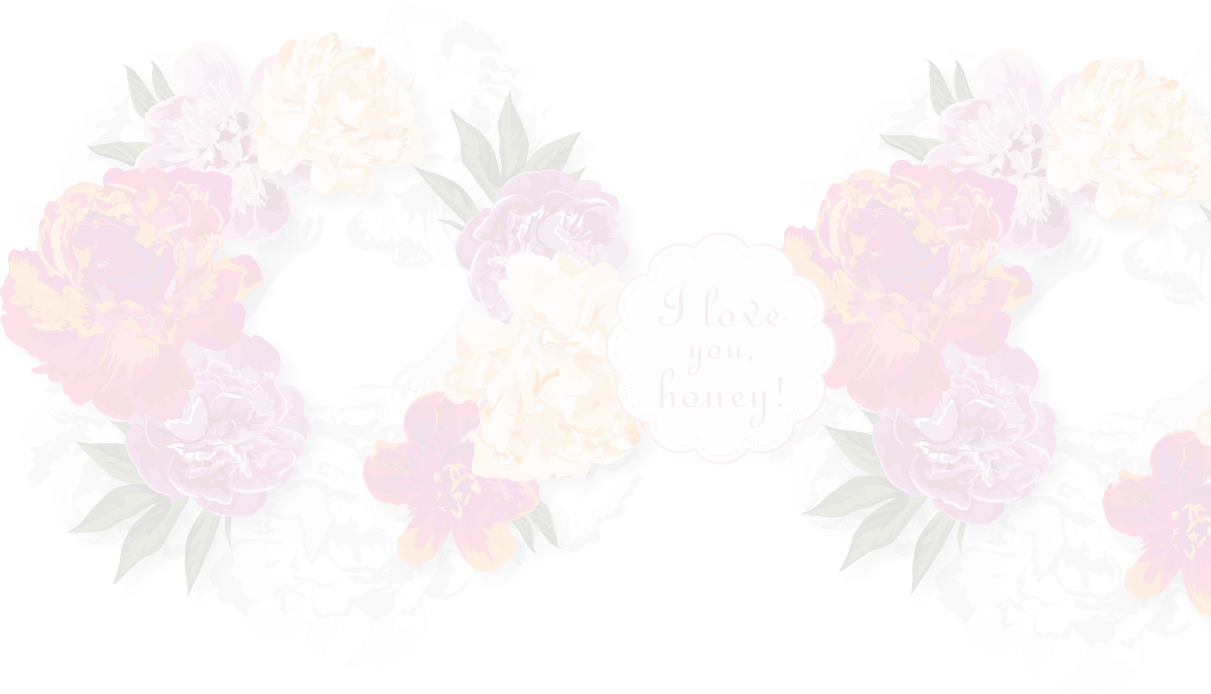
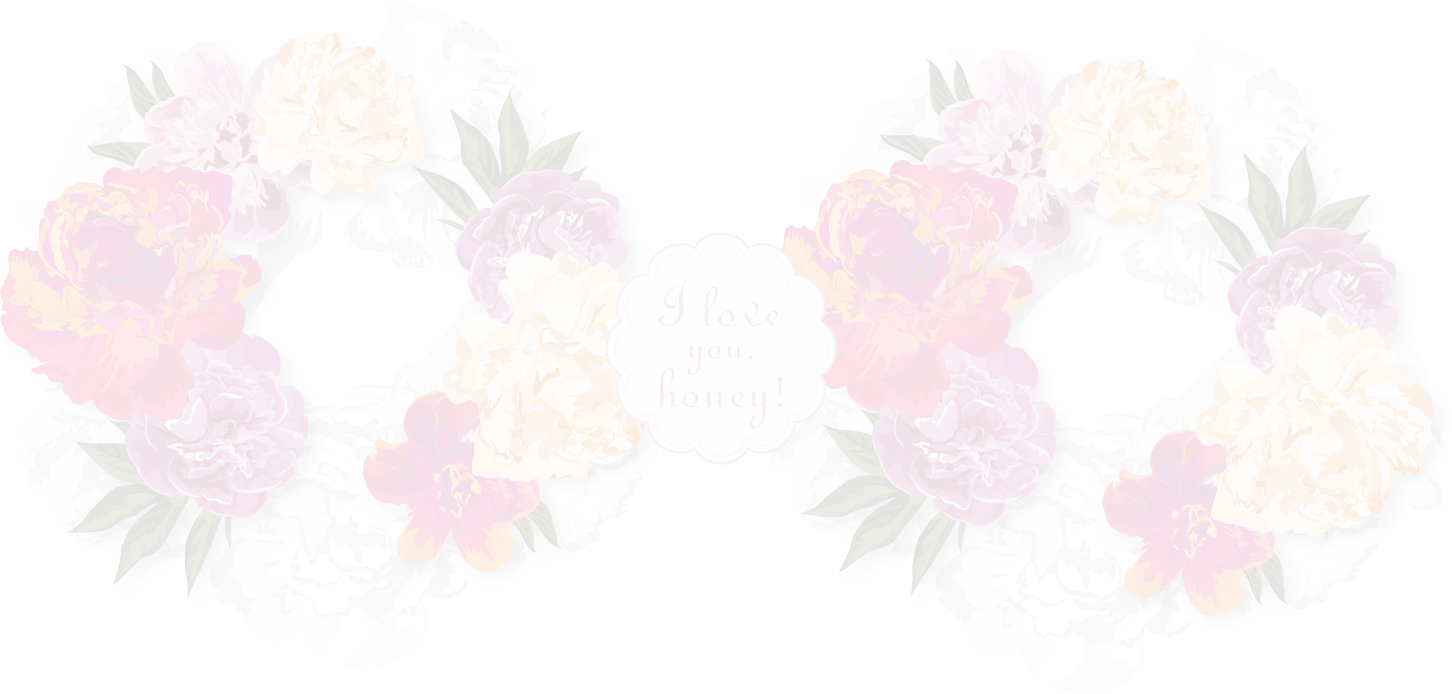
centered backgrounds

diff --git a/css/app.css b/css/app.css
@@ -738,15 +738,17 @@ table th { background: #000; color: #fff; padding: 10px 15px; font-weight: 400; 
 
 .wrap { height: 100vh; background: url(../img/bg.png) center no-repeat; background-size: contain; display: -webkit-box; display: -ms-flexbox; display: flex; -webkit-box-orient: vertical; -webkit-box-direction: normal; -ms-flex-direction: column; flex-direction: column; background-attachment: fixed; }
 
-.wrap_card { background: url(../img/bg_card.png) center bottom no-repeat; }
+.wrap_card { background: url(../img/bg_card.png) no-repeat; background-position: center bottom calc(50vh - 410px); }
 
-.wrap_wreath { background: url(../img/bg_wreath.png) right center no-repeat; }
+.wrap_wreath { background: url(../img/bg_wreath.png) no-repeat; background-position: right calc(50vw - 904px) center; }
 
-.wrap_how { background: url(../img/bg_how.png) 30px center no-repeat; }
+.wrap_how { background: url(../img/bg_how.png) center no-repeat; }
 
 .wrap_price { background: url(../img/bg_price.png) center no-repeat; }
 
-.head { height: 52px; position: relative; display: -webkit-box; display: -ms-flexbox; display: flex; -webkit-box-align: center; -ms-flex-align: center; align-items: center; -webkit-box-pack: justify; -ms-flex-pack: justify; justify-content: space-between; margin: 0 55px; margin-top: 48px; }
+.head { height: 52px; position: relative; margin: 0 55px; margin-top: 48px; }
+
+.head_inner { display: -webkit-box; display: -ms-flexbox; display: flex; -webkit-box-align: center; -ms-flex-align: center; align-items: center; -webkit-box-pack: justify; -ms-flex-pack: justify; justify-content: space-between; }
 
 .head_hamb { min-width: 52px; height: 52px; cursor: pointer; position: relative; -webkit-transition: 300ms; transition: 300ms; z-index: 2; }
 
@@ -824,11 +826,15 @@ table th { background: #000; color: #fff; padding: 10px 15px; font-weight: 400; 
 
 .main_video_button.paused::before { border-right: 31.5px solid transparent; }
 
-.actually_content { width: 390px; margin-right: -125px; z-index: 2; -ms-flex-item-align: end; align-self: flex-end; margin-bottom: 14px; }
+.actually { padding-top: 30px; }
+
+.actually_content { width: 390px; margin-right: -125px; z-index: 2; margin-bottom: 14px; }
 
 .actually_descr { font-size: 20px; line-height: 1.3; margin-top: 15px; margin-bottom: 33px; }
 
-.actually_card { width: 680px; height: 480px; box-shadow: 0 0 65px rgba(0, 0, 0, 0.15); background: #fff; position: relative; margin-top: 30px; overflow: hidden; background: url(../img/card.svg) no-repeat; background-size: 832px; background-attachment: fixed; background-position: right calc(50vw - 546px) bottom -18px; }
+.actually_card { width: 680px; height: 480px; box-shadow: 0 0 65px rgba(0, 0, 0, 0.15); background: #fff; position: relative; overflow: hidden; background: url(../img/card.svg) no-repeat; background-size: 832px; background-attachment: fixed; background-position: right calc(50vw - 546px) bottom calc(50vh - 410px); }
+
+.check { padding-top: 30px; }
 
 .check_content { width: 340px; }
 
@@ -856,7 +862,7 @@ table th { background: #000; color: #fff; padding: 10px 15px; font-weight: 400; 
 
 .check_card::after { width: 100%; height: 430px; top: -30px; left: 56px; }
 
-.check_card_img { overflow: hidden; width: 100%; height: 100%; position: relative; box-shadow: 0 0 16px rgba(0, 0, 0, 0.17); z-index: 2; background: #fff url(../img/card_check.svg) no-repeat; background-size: 1462px; background-attachment: fixed; background-position: right -249px center; }
+.check_card_img { overflow: hidden; width: 100%; height: 100%; position: relative; box-shadow: 0 0 16px rgba(0, 0, 0, 0.17); z-index: 2; background: #fff url(../img/card_check.svg) no-repeat; background-size: 1462px; background-attachment: fixed; background-position: right calc(50vw - 910px) center; }
 
 .how { padding-top: 30px; }
 
@@ -864,7 +870,7 @@ table th { background: #000; color: #fff; padding: 10px 15px; font-weight: 400; 
 
 .how_card { position: relative; width: 595px; height: 425px; margin-top: 54px; }
 
-.how_card::before { content: ''; position: absolute; top: -34px; left: -96px; width: 100%; height: 100%; box-shadow: 0 0 16px rgba(0, 0, 0, 0.17); background: #fff url(../img/bg_how_real.png) 30px center no-repeat; background-attachment: fixed; }
+.how_card::before { content: ''; position: absolute; top: -34px; left: -96px; width: 100%; height: 100%; box-shadow: 0 0 16px rgba(0, 0, 0, 0.17); background: #fff url(../img/bg_how_real.png) center no-repeat; background-attachment: fixed; }
 
 .how_card_inner { position: relative; width: 100%; height: 100%; box-shadow: 0 0 16px rgba(0, 0, 0, 0.17); background-color: #fff; z-index: 2; padding: 45px; display: -webkit-box; display: -ms-flexbox; display: flex; -webkit-box-align: center; -ms-flex-align: center; align-items: center; }
 
@@ -890,7 +896,7 @@ table th { background: #000; color: #fff; padding: 10px 15px; font-weight: 400; 
 
 .price_card .header { position: absolute; top: -110px; left: -60px; }
 
-.price_card .button { position: absolute; right: -35px; bottom: -16px; }
+.price_card .button { position: absolute; right: -30px; bottom: -16px; }
 
 .price_card_hint { position: absolute; bottom: -65px; left: -60px; }
 

diff --git a/scss/_style.scss b/scss/_style.scss
@@ -69,13 +69,15 @@ table{
     flex-direction: column;
     background-attachment: fixed;
     &_card{
-        background: url(../img/bg_card.png) center bottom no-repeat;
+        background: url(../img/bg_card.png) no-repeat;
+        background-position: center bottom calc(50vh - 410px);
     }
     &_wreath{
-        background: url(../img/bg_wreath.png) right center no-repeat;
+        background: url(../img/bg_wreath.png) no-repeat;
+        background-position: right calc(50vw - 904px) center;
     }
     &_how{
-        background: url(../img/bg_how.png) 30px center no-repeat;
+        background: url(../img/bg_how.png) center no-repeat;
     }
     &_price{
         background: url(../img/bg_price.png) center no-repeat;       
@@ -85,11 +87,13 @@ table{
 .head{
     height: 52px;
     position: relative;
-    display: flex;
-    align-items: center;
-    justify-content: space-between;
     margin: 0 55px;
     margin-top: 48px;
+    &_inner{
+        display: flex;
+        align-items: center;
+        justify-content: space-between;
+    }
     &_logo{
 
     }
@@ -333,11 +337,12 @@ table{
 }
 
 .actually{
+    padding-top: 30px;
     &_content{
         width: 390px;
         margin-right: -125px;
         z-index: 2;
-        align-self: flex-end;
+        // align-self: flex-end;
         margin-bottom: 14px;
     }
     &_descr{
@@ -352,16 +357,16 @@ table{
         box-shadow: 0 0 65px rgba(0, 0, 0, 0.15);
         background: $white;
         position: relative;
-        margin-top: 30px;
         overflow: hidden;
         background: url(../img/card.svg) no-repeat;
         background-size: 832px;
         background-attachment: fixed;
-        background-position: right calc(50vw - 546px) bottom -18px;
+        background-position: right calc(50vw - 546px) bottom calc(50vh - 410px);
     }
 }
 
 .check{
+    padding-top: 30px;
     &_content{
         width: 340px;
         .header{
@@ -442,7 +447,7 @@ table{
             background: $white url(../img/card_check.svg) no-repeat;
             background-size: 1462px;
             background-attachment: fixed;
-            background-position: right -249px center;
+            background-position: right calc(50vw - 910px) center;
         }
     }
 }
@@ -469,7 +474,7 @@ table{
             width: 100%;
             height: 100%;
             box-shadow: 0 0 16px rgba(0, 0, 0, 0.17);
-            background: $white url(../img/bg_how_real.png) 30px center no-repeat;
+            background: $white url(../img/bg_how_real.png) center no-repeat;
             background-attachment: fixed;
         }
         &_inner{
@@ -554,7 +559,7 @@ table{
         }
         .button{
             position: absolute;
-            right: -35px;
+            right: -30px;
             bottom: -16px;
         }
         &_hint{

diff --git a/price.html b/price.html
@@ -4,10 +4,10 @@
     <meta charset="UTF-8">
     <title>PostcardActually</title>
     <link rel="apple-touch-icon" sizes="180x180" href="/apple-touch-icon.png">
-    <link rel="icon" type="image/png" href="/favicon-32x32.png" sizes="32x32">
-    <link rel="icon" type="image/png" href="/favicon-16x16.png" sizes="16x16">
-    <link rel="manifest" href="/manifest.json">
-    <link rel="mask-icon" href="/safari-pinned-tab.svg" color="#f297aa">
+    <link rel="icon" type="image/png" href="./favicon-32x32.png" sizes="32x32">
+    <link rel="icon" type="image/png" href="./favicon-16x16.png" sizes="16x16">
+    <link rel="manifest" href="./manifest.json">
+    <link rel="mask-icon" href="./safari-pinned-tab.svg" color="#f297aa">
     <meta name="theme-color" content="#f297aa">
     <link rel="stylesheet" href="https://fonts.googleapis.com/css?family=Lato:300,400">
     <link rel="stylesheet" href="https://fonts.googleapis.com/css?family=Playfair+Display:700,900">
@@ -17,9 +17,16 @@
   <body>
     <main class="wrap wrap_price">
       <header class="head">
-        <div class="head_hamb is_active">
-          <div class="head_hamb_inner"></div>
-        </div><a href="./" class="head_logo"><img src="./img/logo.svg" alt="PostcardActually"></a>
+        <div class="head_inner">
+          <div class="head_hamb is_active">
+            <div class="head_hamb_inner"></div>
+          </div><a href="./" class="head_logo"><img src="./img/logo.svg" alt="PostcardActually"></a>
+          <select class="select7 select7_dropdown select7_remove_current head_lang">
+            <option>en</option>
+            <option>sp</option>
+            <option>uk</option>
+          </select>
+        </div>
         <nav class="head_nav is_active">
           <ul class="menu">
             <li><a href="#">BLOG</a></li>
@@ -27,11 +34,6 @@
             <li><a href="#">CONTACT</a></li>
           </ul>
         </nav>
-        <select class="select7 select7_dropdown select7_remove_current head_lang">
-          <option>en</option>
-          <option>sp</option>
-          <option>uk</option>
-        </select>
         <ul class="head_social">
           <li><a href="#"><img src="./img/social/vk.png" target="_blank" alt="VK"></a></li>
           <li><a href="#"><img src="./img/social/fb.png" target="_blank" alt="Facebook"></a></li>

diff --git a/check.html b/check.html
@@ -4,10 +4,10 @@
     <meta charset="UTF-8">
     <title>PostcardActually</title>
     <link rel="apple-touch-icon" sizes="180x180" href="/apple-touch-icon.png">
-    <link rel="icon" type="image/png" href="/favicon-32x32.png" sizes="32x32">
-    <link rel="icon" type="image/png" href="/favicon-16x16.png" sizes="16x16">
-    <link rel="manifest" href="/manifest.json">
-    <link rel="mask-icon" href="/safari-pinned-tab.svg" color="#f297aa">
+    <link rel="icon" type="image/png" href="./favicon-32x32.png" sizes="32x32">
+    <link rel="icon" type="image/png" href="./favicon-16x16.png" sizes="16x16">
+    <link rel="manifest" href="./manifest.json">
+    <link rel="mask-icon" href="./safari-pinned-tab.svg" color="#f297aa">
     <meta name="theme-color" content="#f297aa">
     <link rel="stylesheet" href="https://fonts.googleapis.com/css?family=Lato:300,400">
     <link rel="stylesheet" href="https://fonts.googleapis.com/css?family=Playfair+Display:700,900">
@@ -17,9 +17,16 @@
   <body>
     <main class="wrap wrap_wreath">
       <header class="head">
-        <div class="head_hamb">
-          <div class="head_hamb_inner"></div>
-        </div><a href="./" class="head_logo"><img src="./img/logo.svg" alt="PostcardActually"></a>
+        <div class="head_inner">
+          <div class="head_hamb">
+            <div class="head_hamb_inner"></div>
+          </div><a href="./" class="head_logo"><img src="./img/logo.svg" alt="PostcardActually"></a>
+          <select class="select7 select7_dropdown select7_remove_current head_lang">
+            <option>en</option>
+            <option>sp</option>
+            <option>uk</option>
+          </select>
+        </div>
         <nav class="head_nav">
           <ul class="menu">
             <li><a href="#">BLOG</a></li>
@@ -27,11 +34,6 @@
             <li><a href="#">CONTACT</a></li>
           </ul>
         </nav>
-        <select class="select7 select7_dropdown select7_remove_current head_lang">
-          <option>en</option>
-          <option>sp</option>
-          <option>uk</option>
-        </select>
         <ul class="head_social">
           <li><a href="#"><img src="./img/social/vk.png" target="_blank" alt="VK"></a></li>
           <li><a href="#"><img src="./img/social/fb.png" target="_blank" alt="Facebook"></a></li>

diff --git a/actually.html b/actually.html
@@ -4,10 +4,10 @@
     <meta charset="UTF-8">
     <title>PostcardActually</title>
     <link rel="apple-touch-icon" sizes="180x180" href="/apple-touch-icon.png">
-    <link rel="icon" type="image/png" href="/favicon-32x32.png" sizes="32x32">
-    <link rel="icon" type="image/png" href="/favicon-16x16.png" sizes="16x16">
-    <link rel="manifest" href="/manifest.json">
-    <link rel="mask-icon" href="/safari-pinned-tab.svg" color="#f297aa">
+    <link rel="icon" type="image/png" href="./favicon-32x32.png" sizes="32x32">
+    <link rel="icon" type="image/png" href="./favicon-16x16.png" sizes="16x16">
+    <link rel="manifest" href="./manifest.json">
+    <link rel="mask-icon" href="./safari-pinned-tab.svg" color="#f297aa">
     <meta name="theme-color" content="#f297aa">
     <link rel="stylesheet" href="https://fonts.googleapis.com/css?family=Lato:300,400">
     <link rel="stylesheet" href="https://fonts.googleapis.com/css?family=Playfair+Display:700,900">
@@ -17,9 +17,16 @@
   <body>
     <main class="wrap wrap_card">
       <header class="head">
-        <div class="head_hamb">
-          <div class="head_hamb_inner"></div>
-        </div><a href="./" class="head_logo"><img src="./img/logo.svg" alt="PostcardActually"></a>
+        <div class="head_inner">
+          <div class="head_hamb">
+            <div class="head_hamb_inner"></div>
+          </div><a href="./" class="head_logo"><img src="./img/logo.svg" alt="PostcardActually"></a>
+          <select class="select7 select7_dropdown select7_remove_current head_lang">
+            <option>en</option>
+            <option>sp</option>
+            <option>uk</option>
+          </select>
+        </div>
         <nav class="head_nav">
           <ul class="menu">
             <li><a href="#">BLOG</a></li>
@@ -27,11 +34,6 @@
             <li><a href="#">CONTACT</a></li>
           </ul>
         </nav>
-        <select class="select7 select7_dropdown select7_remove_current head_lang">
-          <option>en</option>
-          <option>sp</option>
-          <option>uk</option>
-        </select>
         <ul class="head_social">
           <li><a href="#"><img src="./img/social/vk.png" target="_blank" alt="VK"></a></li>
           <li><a href="#"><img src="./img/social/fb.png" target="_blank" alt="Facebook"></a></li>

diff --git a/how.html b/how.html
@@ -4,10 +4,10 @@
     <meta charset="UTF-8">
     <title>PostcardActually</title>
     <link rel="apple-touch-icon" sizes="180x180" href="/apple-touch-icon.png">
-    <link rel="icon" type="image/png" href="/favicon-32x32.png" sizes="32x32">
-    <link rel="icon" type="image/png" href="/favicon-16x16.png" sizes="16x16">
-    <link rel="manifest" href="/manifest.json">
-    <link rel="mask-icon" href="/safari-pinned-tab.svg" color="#f297aa">
+    <link rel="icon" type="image/png" href="./favicon-32x32.png" sizes="32x32">
+    <link rel="icon" type="image/png" href="./favicon-16x16.png" sizes="16x16">
+    <link rel="manifest" href="./manifest.json">
+    <link rel="mask-icon" href="./safari-pinned-tab.svg" color="#f297aa">
     <meta name="theme-color" content="#f297aa">
     <link rel="stylesheet" href="https://fonts.googleapis.com/css?family=Lato:300,400">
     <link rel="stylesheet" href="https://fonts.googleapis.com/css?family=Playfair+Display:700,900">
@@ -17,9 +17,16 @@
   <body>
     <main class="wrap wrap_how">
       <header class="head">
-        <div class="head_hamb">
-          <div class="head_hamb_inner"></div>
-        </div><a href="./" class="head_logo"><img src="./img/logo.svg" alt="PostcardActually"></a>
+        <div class="head_inner">
+          <div class="head_hamb">
+            <div class="head_hamb_inner"></div>
+          </div><a href="./" class="head_logo"><img src="./img/logo.svg" alt="PostcardActually"></a>
+          <select class="select7 select7_dropdown select7_remove_current head_lang">
+            <option>en</option>
+            <option>sp</option>
+            <option>uk</option>
+          </select>
+        </div>
         <nav class="head_nav">
           <ul class="menu">
             <li><a href="#">BLOG</a></li>
@@ -27,11 +34,6 @@
             <li><a href="#">CONTACT</a></li>
           </ul>
         </nav>
-        <select class="select7 select7_dropdown select7_remove_current head_lang">
-          <option>en</option>
-          <option>sp</option>
-          <option>uk</option>
-        </select>
         <ul class="head_social">
           <li><a href="#"><img src="./img/social/vk.png" target="_blank" alt="VK"></a></li>
           <li><a href="#"><img src="./img/social/fb.png" target="_blank" alt="Facebook"></a></li>

diff --git a/index.html b/index.html
@@ -4,10 +4,10 @@
     <meta charset="UTF-8">
     <title>PostcardActually</title>
     <link rel="apple-touch-icon" sizes="180x180" href="/apple-touch-icon.png">
-    <link rel="icon" type="image/png" href="/favicon-32x32.png" sizes="32x32">
-    <link rel="icon" type="image/png" href="/favicon-16x16.png" sizes="16x16">
-    <link rel="manifest" href="/manifest.json">
-    <link rel="mask-icon" href="/safari-pinned-tab.svg" color="#f297aa">
+    <link rel="icon" type="image/png" href="./favicon-32x32.png" sizes="32x32">
+    <link rel="icon" type="image/png" href="./favicon-16x16.png" sizes="16x16">
+    <link rel="manifest" href="./manifest.json">
+    <link rel="mask-icon" href="./safari-pinned-tab.svg" color="#f297aa">
     <meta name="theme-color" content="#f297aa">
     <link rel="stylesheet" href="https://fonts.googleapis.com/css?family=Lato:300,400">
     <link rel="stylesheet" href="https://fonts.googleapis.com/css?family=Playfair+Display:700,900">
@@ -17,9 +17,16 @@
   <body>
     <main class="wrap">
       <header class="head">
-        <div class="head_hamb">
-          <div class="head_hamb_inner"></div>
-        </div><a href="./" class="head_logo"><img src="./img/logo.svg" alt="PostcardActually"></a>
+        <div class="head_inner">
+          <div class="head_hamb">
+            <div class="head_hamb_inner"></div>
+          </div><a href="./" class="head_logo"><img src="./img/logo.svg" alt="PostcardActually"></a>
+          <select class="select7 select7_dropdown select7_remove_current head_lang">
+            <option>en</option>
+            <option>sp</option>
+            <option>uk</option>
+          </select>
+        </div>
         <nav class="head_nav">
           <ul class="menu">
             <li><a href="#">BLOG</a></li>
@@ -27,11 +34,6 @@
             <li><a href="#">CONTACT</a></li>
           </ul>
         </nav>
-        <select class="select7 select7_dropdown select7_remove_current head_lang">
-          <option>en</option>
-          <option>sp</option>
-          <option>uk</option>
-        </select>
         <ul class="head_social">
           <li><a href="#"><img src="./img/social/vk.png" target="_blank" alt="VK"></a></li>
           <li><a href="#"><img src="./img/social/fb.png" target="_blank" alt="Facebook"></a></li>
